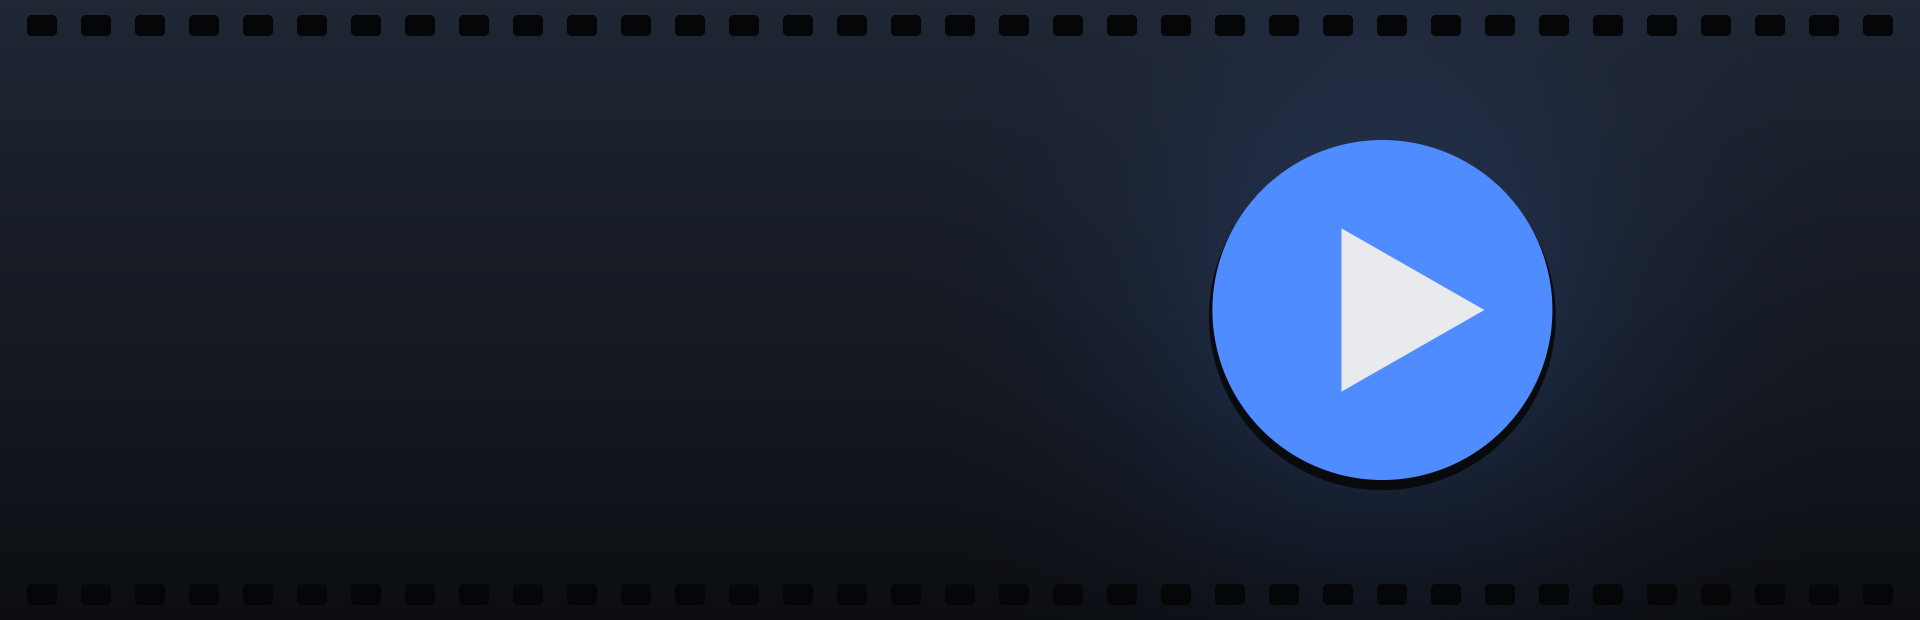
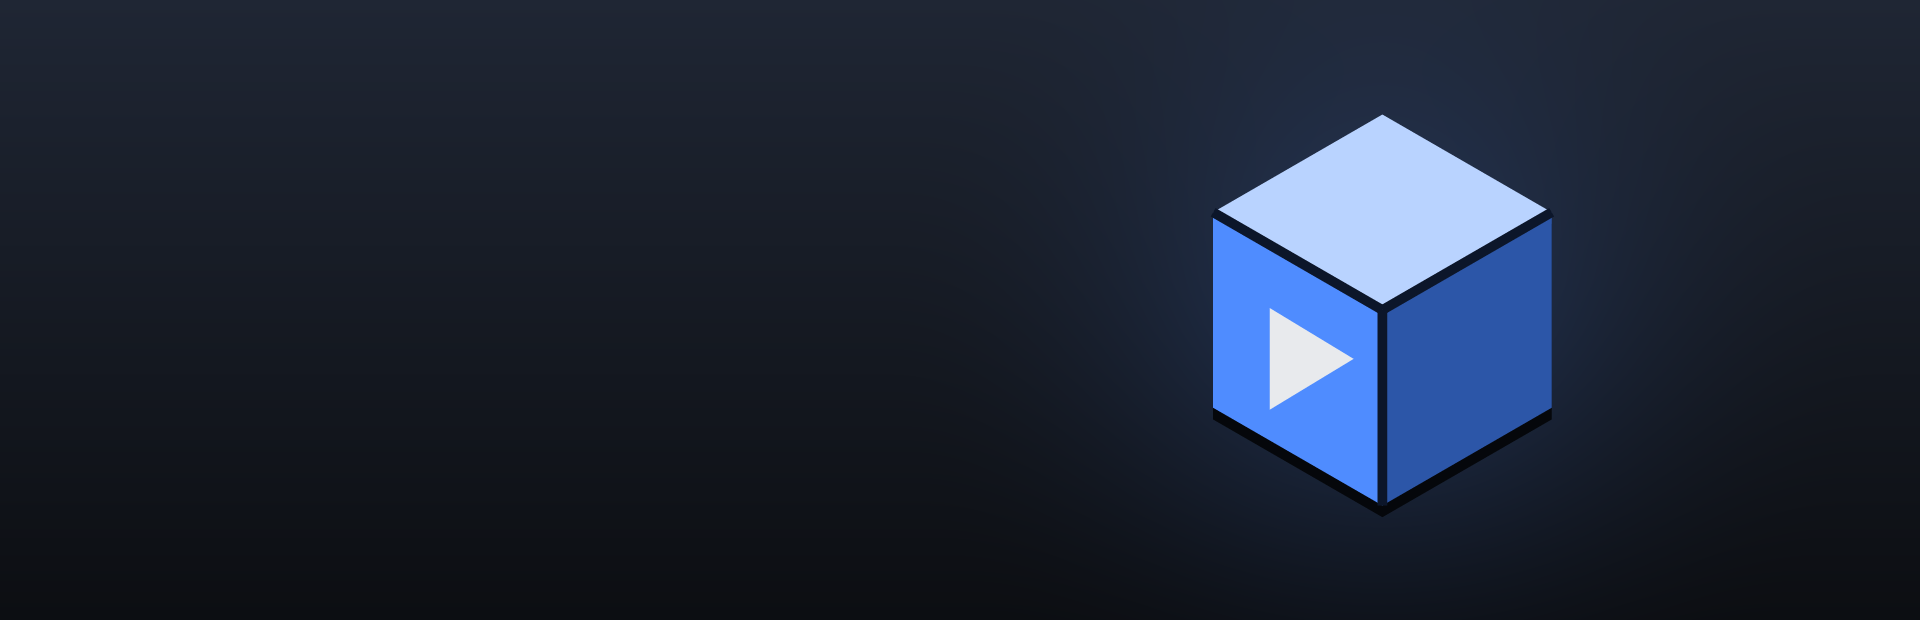
Steam art: an isometric box with a play button, titled Video Box
Claude-Session: https://claude.ai/code/session_01N7gUUEEwkzKpwQaV4rkNNo

Changed region(s): [[0.625, 0.1839, 0.8125, 0.8274], [0.0, 0.0, 1.0, 0.0613], [0.6562, 0.7048, 0.6875, 0.7355]]

diff --git a/src/ui/steam_art.rs b/src/ui/steam_art.rs
@@ -1,6 +1,6 @@
 //! Steam library artwork (capsules, hero, icon) for the non-Steam shortcut.
 //! Rendered with the UI canvas so it can be regenerated without image tools:
-//! `just-video steam-art assets/steam`.
+//! `video-box steam-art assets/steam`.
 
 use super::canvas::{Canvas, Fonts, Rgb};
 
@@ -26,9 +26,8 @@ pub fn render(name: &str, width: u32, height: u32, fonts: &mut Fonts) -> Canvas 
     match name {
         "portrait.png" => {
             background(&mut c, (w / 2.0, h * 0.4), h * 0.45);
-            perforations(&mut c, 34.0);
-            emblem(&mut c, w / 2.0, h * 0.4, 150.0);
-            centered(&mut c, fonts, "Just Video", h * 0.72, 92.0, TEXT);
+            emblem(&mut c, w / 2.0, h * 0.4, 170.0);
+            centered(&mut c, fonts, "Video Box", h * 0.72, 92.0, TEXT);
             centered(
                 &mut c,
                 fonts,
@@ -42,7 +41,7 @@ pub fn render(name: &str, width: u32, height: u32, fonts: &mut Fonts) -> Canvas 
             background(&mut c, (w * 0.25, h / 2.0), h * 0.7);
             emblem(&mut c, w * 0.25, h / 2.0, 120.0);
             let x = w * 0.46;
-            fonts.draw(&mut c, "Just Video", x, h / 2.0 + 20.0, 88.0, TEXT, w);
+            fonts.draw(&mut c, "Video Box", x, h / 2.0 + 20.0, 88.0, TEXT, w);
             fonts.draw(
                 &mut c,
                 "VR video player",
@@ -56,7 +55,6 @@ pub fn render(name: &str, width: u32, height: u32, fonts: &mut Fonts) -> Canvas 
         // Steam draws the title over the hero, so it carries no text.
         "hero.png" => {
             background(&mut c, (w * 0.72, h / 2.0), h * 0.8);
-            perforations(&mut c, 30.0);
             emblem(&mut c, w * 0.72, h / 2.0, 170.0);
         }
         _ => {
@@ -85,36 +83,54 @@ fn background(c: &mut Canvas, glow: (f32, f32), radius: f32) {
     }
 }
 
-/// Film-strip holes along the top and bottom edges.
-fn perforations(c: &mut Canvas, size: f32) {
-    let (w, h) = (c.width as f32, c.height as f32);
-    let hole = [0x05, 0x06, 0x08];
-    let step = size * 1.8;
-    let count = (w / step).floor();
-    let x0 = (w - count * step) / 2.0 + (step - size) / 2.0;
-    for i in 0..count as usize {
-        let x = x0 + i as f32 * step;
-        c.rect(x, size * 0.5, size, size * 0.7, size * 0.15, hole);
-        c.rect(x, h - size * 1.2, size, size * 0.7, size * 0.15, hole);
-    }
-}
-
-/// Accent disc with a play triangle.
+/// An isometric box with a play triangle on its front-left face.
 fn emblem(c: &mut Canvas, cx: f32, cy: f32, r: f32) {
-    c.circle(cx, cy + r * 0.04, r * 1.02, [0x08, 0x0a, 0x0e]);
-    c.circle(cx, cy, r, ACCENT);
-    // Shifted right so the triangle's centroid sits on the disc's centre.
-    let s = r * 0.48;
-    let x = cx + s * 0.25;
-    triangle(
+    let r = r * 1.15;
+    let k = 0.866_025_4 * r;
+    let at = |dx: f32, dy: f32| (cx + dx, cy + dy);
+    let (top, ur, lr) = (at(0.0, -r), at(k, -r / 2.0), at(k, r / 2.0));
+    let (bottom, ll, ul, mid) = (at(0.0, r), at(-k, r / 2.0), at(-k, -r / 2.0), at(0.0, 0.0));
+    // Soft shadow under the box.
+    let (sx, sy) = (0.0, r * 0.06);
+    let shifted: Vec<_> = [top, ur, lr, bottom, ll, ul]
+        .iter()
+        .map(|p| (p.0 + sx, p.1 + sy))
+        .collect();
+    polygon(c, &shifted, [0x05, 0x07, 0x0b]);
+    polygon(c, &[top, ur, mid, ul], [0xb9, 0xd3, 0xff]);
+    polygon(c, &[ul, mid, bottom, ll], ACCENT);
+    polygon(c, &[mid, ur, lr, bottom], [0x2c, 0x56, 0xa8]);
+    // Edges between the faces.
+    let edge = [0x0c, 0x16, 0x2a];
+    for (a, b) in [(ul, mid), (mid, ur), (mid, bottom)] {
+        line(c, a, b, r * 0.025, edge);
+    }
+    // An upright play triangle (centroid on the left face's centre).
+    let (fx, fy) = ((ul.0 + bottom.0) / 2.0, (ul.1 + bottom.1) / 2.0);
+    let t = r * 0.26;
+    polygon(
         c,
-        [(x - s * 0.75, cy - s), (x - s * 0.75, cy + s), (x + s, cy)],
+        &[(fx - t * 0.55, fy - t), (fx - t * 0.55, fy + t), (fx + t * 1.1, fy)],
         TEXT,
     );
 }
 
-/// Filled triangle, anti-aliased by 4×4 supersampling.
-fn triangle(c: &mut Canvas, p: [(f32, f32); 3], color: Rgb) {
+/// A thick line as a quad.
+fn line(c: &mut Canvas, a: (f32, f32), b: (f32, f32), width: f32, color: Rgb) {
+    let (dx, dy) = (b.0 - a.0, b.1 - a.1);
+    let len = (dx * dx + dy * dy).sqrt().max(1e-3);
+    let (nx, ny) = (-dy / len * width, dx / len * width);
+    let q = [
+        (a.0 + nx, a.1 + ny),
+        (b.0 + nx, b.1 + ny),
+        (b.0 - nx, b.1 - ny),
+        (a.0 - nx, a.1 - ny),
+    ];
+    polygon(c, &q, color);
+}
+
+/// Filled convex polygon (either winding), anti-aliased by 4×4 supersampling.
+fn polygon(c: &mut Canvas, p: &[(f32, f32)], color: Rgb) {
     let edge = |a: (f32, f32), b: (f32, f32), x: f32, y: f32| {
         (b.0 - a.0) * (y - a.1) - (b.1 - a.1) * (x - a.0)
     };
@@ -122,6 +138,7 @@ fn triangle(c: &mut Canvas, p: [(f32, f32); 3], color: Rgb) {
     let max_x = p.iter().map(|q| q.0).fold(f32::MIN, f32::max).ceil() as i32;
     let min_y = p.iter().map(|q| q.1).fold(f32::MAX, f32::min).floor() as i32;
     let max_y = p.iter().map(|q| q.1).fold(f32::MIN, f32::max).ceil() as i32;
+    let n = p.len();
     let sign = edge(p[0], p[1], p[2].0, p[2].1).signum();
     for py in min_y.max(0)..max_y.min(c.height as i32) {
         for px in min_x.max(0)..max_x.min(c.width as i32) {
@@ -132,7 +149,7 @@ fn triangle(c: &mut Canvas, p: [(f32, f32); 3], color: Rgb) {
                         px as f32 + (sx as f32 + 0.5) / 4.0,
                         py as f32 + (sy as f32 + 0.5) / 4.0,
                     );
-                    if (0..3).all(|k| edge(p[k], p[(k + 1) % 3], x, y) * sign >= 0.0) {
+                    if (0..n).all(|k| edge(p[k], p[(k + 1) % n], x, y) * sign >= 0.0) {
                         hits += 1;
                     }
                 }
